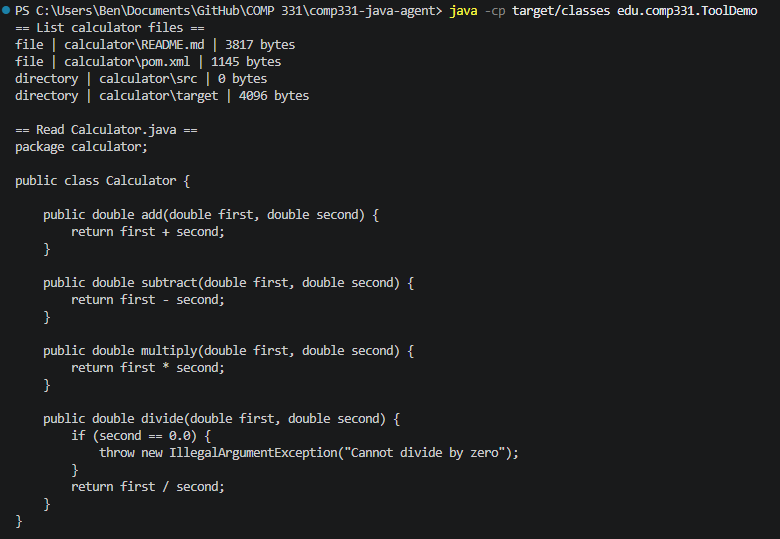
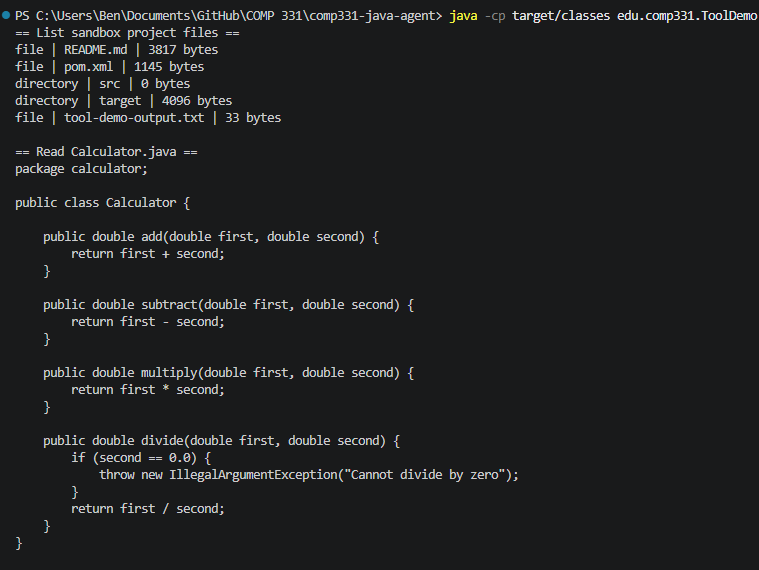
README update

diff --git a/src/main/java/edu/comp331/ToolDemo.java b/src/main/java/edu/comp331/ToolDemo.java
@@ -15,15 +15,15 @@ public final class ToolDemo {
     }
 
     public static void main(String[] args) throws Exception {
-        Path sandboxRoot = Path.of("workspace");
+        Path sandboxRoot = Path.of("workspace", "calculator");
         SandboxFileStore files = new SandboxFileStore(sandboxRoot);
         ListFilesTool listFiles = new ListFilesTool(files);
         ReadFileTool readFile = new ReadFileTool(files);
         WriteFileTool writeFile = new WriteFileTool(files);
         RunJavaTestsTool runJavaTests = new RunJavaTestsTool(sandboxRoot);
 
-        System.out.println("== List calculator files ==");
-        for (FileInfo entry : listFiles.execute("calculator")) {
+        System.out.println("== List sandbox project files ==");
+        for (FileInfo entry : listFiles.execute(".")) {
             System.out.printf("%s | %s | %d bytes%n",
                     entry.isDirectory() ? "directory" : "file",
                     entry.relativePath(),
@@ -33,17 +33,17 @@ public final class ToolDemo {
         System.out.println();
         System.out.println("== Read Calculator.java ==");
         System.out.println(readFile.execute(
-                "calculator/src/main/java/calculator/Calculator.java"));
+                "src/main/java/calculator/Calculator.java"));
 
         System.out.println("== Write harmless demo file ==");
         System.out.println(writeFile.execute(new WriteFileTool.Request(
                 "tool-demo-output.txt",
                 "Created by the sandbox tool demo.")));
-        System.out.println("The file remains in workspace after the demo.");
+        System.out.println("The file remains in the sandbox after the demo.");
 
         System.out.println();
-        System.out.println("== Run calculator tests ==");
-        String testResult = runJavaTests.execute("calculator");
+        System.out.println("== Run sandbox tests ==");
+        String testResult = runJavaTests.execute(".");
         System.out.println(testResult);
         if (!testResult.startsWith("Maven tests exited with code 0.")) {
             throw new IllegalStateException("The calculator Maven tests did not pass.");

diff --git a/README.md b/README.md
@@ -79,11 +79,7 @@ The code created using the naive prompt did surprisingly well in covering fail c
 - `SandboxFileStore` provides list/read/write operations.
 - `SandboxPaths` validates paths.
 - `RunJavaTestsTool` runs tests for a maven project.
-
-### Sandbox Layout
-
-- `workspace` is the sandbox root.
-- `workspace/calculator` is the Java project used by the demo.
+- `workspace/calculator` is the sandbox root.
 
 ## Running Tests and the demo
 
@@ -93,7 +89,7 @@ mvn compile
 java -cp target/classes edu.comp331.ToolDemo
 ```
 
-The demo creates `workspace/tool-demo-output.txt` and leaves it there.
+The demo creates `workspace/calculator/tool-demo-output.txt` and leaves it there.
 
 ## JUnit tests passed
 
@@ -109,5 +105,16 @@ The demo creates `workspace/tool-demo-output.txt` and leaves it there.
 
 ## Limitations
 
-Path checks only block ordinary traversal and symlink.
-The demo leaves `workspace/tool-demo.output.txt` behind.
+- Path checks only block ordinary traversal and symlink.
+- The demo leaves `workspace/calculator/tool-demo-output.txt` behind.
+- Maven can execute project code/plugins.
+
+## AI Usage
+
+### Accepted
+
+I accepted a proposal to inject a process runner so the command restriction could be tested without launching Maven. The test verifies that the runner receives only the fixed Maven test command. The tool tests passed.
+
+### Revised
+
+The original path-traversal test name `../outside.txt` but did not create that file. I revised it by creating an existing file oustide the sandbox for testing.
